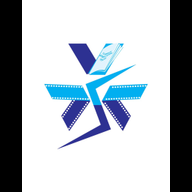
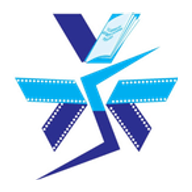
changes related to padding and all

diff --git a/src/app/knowledge/blog/[slug]/page.tsx b/src/app/knowledge/blog/[slug]/page.tsx
@@ -76,24 +76,38 @@ export default function BlogDetailPage({
       </section>
 
       <section className="mx-auto max-w-3xl px-4 py-14 sm:px-6 lg:px-8 lg:py-20">
-        <article className="prose prose-slate max-w-none">
-          <p>
-            Full article copy is prepared for your team to drop in from tenders,
-            internal SOPs, or customer FAQs. The summary above reflects how we
-            talk about this topic with buyers in Andhra Pradesh, Telangana, and
-            neighbouring states.
+        <article className="space-y-5">
+          <p className="text-base leading-relaxed text-muted-foreground sm:text-lg">
+            This is how we approach the topic with exam cells, treasury teams,
+            and procurement officers across Andhra Pradesh, Telangana, and
+            neighbouring states — grounded in the controls we run every day on
+            our own floors, not generic marketing claims.
           </p>
-          <p>
-            For specifications on question papers, OMR, cheque books, certificates,
-            or variable-data programmes, contact our Hyderabad or Vijayawada
-            offices — we can share sample packs and audit-friendly process maps
-            under NDA.
+          <p className="text-base leading-relaxed text-muted-foreground sm:text-lg">
+            For specifications on question papers, OMR, cheque books,
+            certificates, or variable-data programmes, contact our Hyderabad or
+            Vijayawada offices — we can share sample packs and audit-friendly
+            process maps under NDA.
           </p>
-          <h2>Key takeaways</h2>
-          <ul>
-            <li>Match security features and paper to your RFP — not a generic catalogue.</li>
-            <li>Serial control, gate logs, and destruction certificates beat marketing claims.</li>
-            <li>Build slack for proof, QC, and DCM dispatch into the exam or issuance calendar.</li>
+          <h2 className="pt-4 text-2xl font-bold text-primary sm:text-3xl">
+            Key takeaways
+          </h2>
+          <ul className="space-y-3">
+            {[
+              "Match security features and paper to your RFP — not a generic catalogue.",
+              "Serial control, gate logs, and destruction certificates beat marketing claims.",
+              "Build slack for proof, QC, and DCM dispatch into the exam or issuance calendar.",
+            ].map((takeaway) => (
+              <li key={takeaway} className="flex gap-3">
+                <span
+                  className="mt-2.5 h-1.5 w-1.5 shrink-0 rounded-full bg-accent"
+                  aria-hidden
+                />
+                <span className="text-base leading-relaxed text-muted-foreground sm:text-lg">
+                  {takeaway}
+                </span>
+              </li>
+            ))}
           </ul>
         </article>
       </section>

diff --git a/src/app/about/page.tsx b/src/app/about/page.tsx
@@ -375,19 +375,6 @@ export default function AboutPage() {
             <p className="text-sm font-medium text-accent">Managing Director</p>
             <dl className="mt-6 space-y-3 text-sm">
               <div>
-                <dt className="font-semibold text-primary">Father</dt>
-                <dd className="mt-0.5 text-muted-foreground">
-                  Shri R. Prasad
-                </dd>
-              </div>
-              <div>
-                <dt className="font-semibold text-primary">Registered address</dt>
-                <dd className="mt-0.5 text-muted-foreground">
-                  Villa No. 190, APR Pranav Antilia, beside Keshava Reddy School,
-                  Indra Nagar, Bachupally, Hyderabad 500090
-                </dd>
-              </div>
-              <div>
                 <dt className="font-semibold text-primary">Education</dt>
                 <dd className="mt-0.5 text-muted-foreground">
                   Diploma in Printing Technology, B.Tech, MBA (postgraduate)
@@ -407,12 +394,6 @@ export default function AboutPage() {
                     className="block break-all text-accent hover:underline"
                   >
                     vsprints@gmail.com
-                  </a>
-                  <a
-                    href="mailto:vshitechs@gmail.com"
-                    className="block break-all text-accent hover:underline"
-                  >
-                    vshitechs@gmail.com
                   </a>
                 </dd>
               </div>
@@ -436,21 +417,11 @@ export default function AboutPage() {
             <p className="text-sm font-medium text-accent">Director</p>
             <dl className="mt-6 space-y-3 text-sm">
               <div>
-                <dt className="font-semibold text-primary">Husband</dt>
+                <dt className="font-semibold text-primary">Expertise</dt>
                 <dd className="mt-0.5 text-muted-foreground">
-                  Shri Ramisetti Phani Krishna
+                  DTP, multilingual design &amp; data entry, and confidential
+                  print execution
                 </dd>
-              </div>
-              <div>
-                <dt className="font-semibold text-primary">Registered address</dt>
-                <dd className="mt-0.5 text-muted-foreground">
-                  Villa No. 190, APR Pranav Antilia, beside Keshava Reddy School,
-                  Indra Nagar, Bachupally, Hyderabad 500090
-                </dd>
-              </div>
-              <div>
-                <dt className="font-semibold text-primary">Education</dt>
-                <dd className="mt-0.5 text-muted-foreground">Graduate</dd>
               </div>
               <div>
                 <dt className="font-semibold text-primary">Contact</dt>

diff --git a/src/app/about/[slug]/page.tsx b/src/app/about/[slug]/page.tsx
@@ -171,14 +171,19 @@ export default function AboutSlugPage({ params }: { params: { slug: string } }) 
                 </Button>
               </div>
             </div>
-            <div className="relative aspect-[4/3] w-full overflow-hidden rounded-2xl border border-primary/10 shadow-md">
-              <Image
-                src={siteImages.aboutEstate.src}
-                alt={siteImages.aboutEstate.alt}
-                fill
-                className="object-cover"
-                sizes="(max-width: 1024px) 100vw, 50vw"
-              />
+            <div className="lg:sticky lg:top-24">
+              <div className="relative aspect-[4/3] w-full overflow-hidden rounded-2xl border border-primary/10 shadow-md lg:aspect-[4/5]">
+                <Image
+                  src={siteImages.aboutEstate.src}
+                  alt={siteImages.aboutEstate.alt}
+                  fill
+                  className="object-cover"
+                  sizes="(max-width: 1024px) 100vw, 50vw"
+                />
+              </div>
+              <p className="mt-2.5 text-center text-xs font-medium text-muted-foreground">
+                Hyderabad works — main entrance, ALEAP Industrial Estate
+              </p>
             </div>
           </div>
         </section>
@@ -459,14 +464,16 @@ export default function AboutSlugPage({ params }: { params: { slug: string } }) 
                 </div>
               </div>
             </div>
-            <div className="relative aspect-[4/3] w-full overflow-hidden rounded-2xl border border-primary/10 shadow-md">
-              <Image
-                src={siteImages.industryCorporate.src}
-                alt={siteImages.industryCorporate.alt}
-                fill
-                className="object-cover"
-                sizes="(max-width: 1024px) 100vw, 50vw"
-              />
+            <div className="lg:sticky lg:top-24">
+              <div className="relative aspect-[4/3] w-full overflow-hidden rounded-2xl border border-primary/10 shadow-md lg:aspect-[4/5]">
+                <Image
+                  src={siteImages.industryCorporate.src}
+                  alt={siteImages.industryCorporate.alt}
+                  fill
+                  className="object-cover"
+                  sizes="(max-width: 1024px) 100vw, 50vw"
+                />
+              </div>
             </div>
           </div>
         </section>

diff --git a/src/app/page.tsx b/src/app/page.tsx
@@ -215,23 +215,23 @@ export default function HomePage() {
               28+ Years
             </p>
             <p className="mt-1 text-sm text-sky-200/85">
-              Of Security Printing Experience
+              Security printing experience
             </p>
           </div>
-            <div className="text-center sm:text-left">
-              <p className="text-2xl font-bold text-accent sm:text-3xl">
-                2 Units
-              </p>
-              <p className="mt-1 text-sm text-sky-200/85">
-                Hyderabad &amp; Vijayawada plants
-              </p>
-            </div>
+          <div className="text-center sm:text-left">
+            <p className="text-2xl font-bold text-accent sm:text-3xl">
+              2 Units
+            </p>
+            <p className="mt-1 text-sm text-sky-200/85">
+              Hyderabad &amp; Vijayawada plants
+            </p>
+          </div>
           <div className="text-center sm:text-left">
             <p className="text-2xl font-bold text-accent sm:text-3xl">
               365 Days
             </p>
             <p className="mt-1 text-sm text-sky-200/85">
-              Round-the-Clock Operations
+              Round-the-clock operations
             </p>
           </div>
           <div className="text-center sm:text-left">
@@ -239,7 +239,7 @@ export default function HomePage() {
               162 Staff
             </p>
             <p className="mt-1 text-sm text-sky-200/85">
-              Technical & Management Team
+              Technical &amp; management team
             </p>
           </div>
         </div>

diff --git a/src/app/knowledge/downloads/page.tsx b/src/app/knowledge/downloads/page.tsx
@@ -25,8 +25,8 @@ const downloads = [
   {
     title: "ISO Certificates Overview",
     description:
-      "High-level summary of certifications and compliance posture (placeholder).",
-    href: "#",
+      "Certificate copies and scope statements for ISO 9001, 27001, and 14001 — shared with qualified buyers under NDA.",
+    href: "/contact",
     icon: ShieldCheck,
     image: siteImages.certificationsTrust,
     available: false,
@@ -34,8 +34,8 @@ const downloads = [
   {
     title: "Product Brochure",
     description:
-      "Product categories and security feature options (placeholder).",
-    href: "#",
+      "Product categories, substrates, and security feature options — request the latest edition from our team.",
+    href: "/contact",
     icon: Download,
     image: siteImages.servicesBanner,
     available: false,
@@ -103,8 +103,10 @@ export default function KnowledgeDownloadsPage() {
                 </p>
                 <div className="mt-6">
                   {disabled ? (
-                    <Button variant="outline" className="w-full" disabled>
-                      Download PDF
+                    <Button variant="outline" className="w-full" asChild>
+                      <Link href="/contact" prefetch={false}>
+                        Request via contact
+                      </Link>
                     </Button>
                   ) : (
                     <Button variant="accent" className="w-full" asChild>

diff --git a/src/components/layout/footer.tsx b/src/components/layout/footer.tsx
@@ -31,13 +31,15 @@ export function Footer() {
         <div className="grid min-w-0 gap-10 md:grid-cols-2 lg:grid-cols-5">
           <div className="min-w-0">
             <div className="flex min-w-0 items-center gap-3">
-              <Image
-                src="/brand-logo.png"
-                alt="V.S. Hitech logo"
-                width={44}
-                height={44}
-                className="h-11 w-11"
-              />
+              <span className="flex h-11 w-11 shrink-0 items-center justify-center rounded-xl bg-white p-1.5 shadow-sm">
+                <Image
+                  src="/images/home/logo-mark.png"
+                  alt="V.S. Hitech logo"
+                  width={36}
+                  height={36}
+                  className="h-full w-full object-contain"
+                />
+              </span>
               <p className="min-w-0 break-words text-lg font-semibold text-white">
                 V.S. Hitech Security Forms Pvt. Ltd.
               </p>
@@ -118,7 +120,7 @@ export function Footer() {
                   Hyderabad
                 </p>
                 <p className="mt-1 break-words text-sm text-white/90">
-                  Plot no: 74, Road No:7, ALEAP Industrial Estate, opp:JNTU
+                  Plot No. 74, Road No. 7, ALEAP Industrial Estate, opp. JNTU
                   Kukatpally, Hyderabad-500090
                 </p>
               </div>

diff --git a/src/components/layout/announcement-bar.tsx b/src/components/layout/announcement-bar.tsx
@@ -1,5 +1,3 @@
-import Link from "next/link";
-
 export function AnnouncementBar() {
   return (
     <div className="relative z-[60] border-b border-white/10 bg-primary px-2 py-2 text-center text-[11px] leading-snug text-white sm:px-3 sm:text-xs sm:leading-normal">
@@ -9,18 +7,18 @@ export function AnnouncementBar() {
         <span className="text-white/50" aria-hidden>
           |
         </span>
-        <span>Serving from 25+ Years</span>
+        <span>Serving institutions since 1997</span>
         <span className="text-white/50" aria-hidden>
           |
         </span>
         <span className="inline-flex flex-wrap items-baseline justify-center gap-x-1">
           <span>Call:</span>
-          <Link
+          <a
             href="tel:+919849068920"
             className="font-semibold text-accent underline-offset-2 hover:underline"
           >
             9849068920
-          </Link>
+          </a>
         </span>
       </p>
     </div>

diff --git a/src/app/technology/security-environment/page.tsx b/src/app/technology/security-environment/page.tsx
@@ -101,11 +101,12 @@ export default function SecurityEnvironmentPage() {
       <section className="border-t border-border bg-white py-14 lg:py-20">
         <div className="mx-auto max-w-6xl px-4 sm:px-6 lg:px-8">
           <h2 className="text-2xl font-bold text-primary sm:text-3xl">
-            Photos placeholder sections
+            Inside the security environment
           </h2>
           <p className="mt-3 max-w-3xl text-sm leading-relaxed text-muted-foreground sm:text-base">
-            Replace these with on-site plant photos (under NDA) when available.
-            The layout is designed to keep the page professional and fast.
+            How the controls translate to the floor — from access-managed zones
+            to supervised destruction of confidential waste. Detailed site
+            photography is shared with qualified buyers under NDA.
           </p>
 
           <div className="mt-10 grid grid-cols-1 gap-6 md:grid-cols-3">

diff --git a/src/app/sectors/government/page.tsx b/src/app/sectors/government/page.tsx
@@ -87,10 +87,11 @@ export default function GovernmentSectorPage() {
                 Sensitive land-record programs
               </h3>
               <p className="mt-3 text-sm leading-relaxed text-muted-foreground">
-                Competitors cite successful completion of Pattadar Pass Books for
-                TS Government. We position ourselves as a strong alternative for
-                AP/TS departments seeking multi-location capacity, documented
-                controls, and secure execution for similar programs.
+                Land-record and citizen-document programmes like Pattadar Pass
+                Books demand multi-location capacity, documented controls, and
+                secure end-to-end execution. Our two audited plants and
+                closed-vehicle dispatch discipline are built for exactly these
+                AP &amp; Telangana department programmes.
               </p>
             </div>
           </div>

diff --git a/src/app/layout.tsx b/src/app/layout.tsx
@@ -29,12 +29,12 @@ export const metadata: Metadata = {
     "Triple ISO-certified security printing in Hyderabad & Vijayawada — question papers, OMR, cheque books, certificates, and confidential print for AP & Telangana.",
   icons: {
     icon: [
-      { url: "/favicon.ico?v=2", type: "image/x-icon" },
-      { url: "/favicon-32x32.png?v=2", sizes: "32x32", type: "image/png" },
-      { url: "/favicon-16x16.png?v=2", sizes: "16x16", type: "image/png" },
+      { url: "/favicon.ico?v=3", type: "image/x-icon" },
+      { url: "/favicon-32x32.png?v=3", sizes: "32x32", type: "image/png" },
+      { url: "/favicon-16x16.png?v=3", sizes: "16x16", type: "image/png" },
     ],
-    apple: [{ url: "/apple-touch-icon.png?v=2", sizes: "180x180" }],
-    shortcut: ["/favicon.ico?v=2"],
+    apple: [{ url: "/apple-touch-icon.png?v=3", sizes: "180x180" }],
+    shortcut: ["/favicon.ico?v=3"],
   },
 };
 

diff --git a/src/app/head.tsx b/src/app/head.tsx
@@ -1,21 +1,21 @@
 export default function Head() {
   return (
     <>
-      <link rel="icon" href="/favicon.ico?v=2" sizes="any" />
+      <link rel="icon" href="/favicon.ico?v=3" sizes="any" />
       <link
         rel="icon"
         type="image/png"
-        href="/favicon-32x32.png?v=2"
+        href="/favicon-32x32.png?v=3"
         sizes="32x32"
       />
       <link
         rel="icon"
         type="image/png"
-        href="/favicon-16x16.png?v=2"
+        href="/favicon-16x16.png?v=3"
         sizes="16x16"
       />
-      <link rel="apple-touch-icon" href="/apple-touch-icon.png?v=2" />
-      <link rel="manifest" href="/site.webmanifest?v=2" />
+      <link rel="apple-touch-icon" href="/apple-touch-icon.png?v=3" />
+      <link rel="manifest" href="/site.webmanifest?v=3" />
       <meta name="theme-color" content="#0b1f46" />
     </>
   );

diff --git a/src/components/layout/navbar.tsx b/src/components/layout/navbar.tsx
@@ -166,12 +166,12 @@ export function Navbar() {
         >
           <span className="flex min-w-0 items-center gap-2 sm:gap-3">
             <Image
-              src="/brand-logo.png"
+              src="/images/home/logo-mark.png"
               alt="V.S. Hitech logo"
               width={34}
               height={34}
               priority
-              className="h-8 w-8 shrink-0 sm:h-9 sm:w-9"
+              className="h-8 w-8 shrink-0 object-contain sm:h-9 sm:w-9"
             />
             <span className="break-words hyphens-auto">
               VS HITECH SECURITY FORMS PVT LTD
